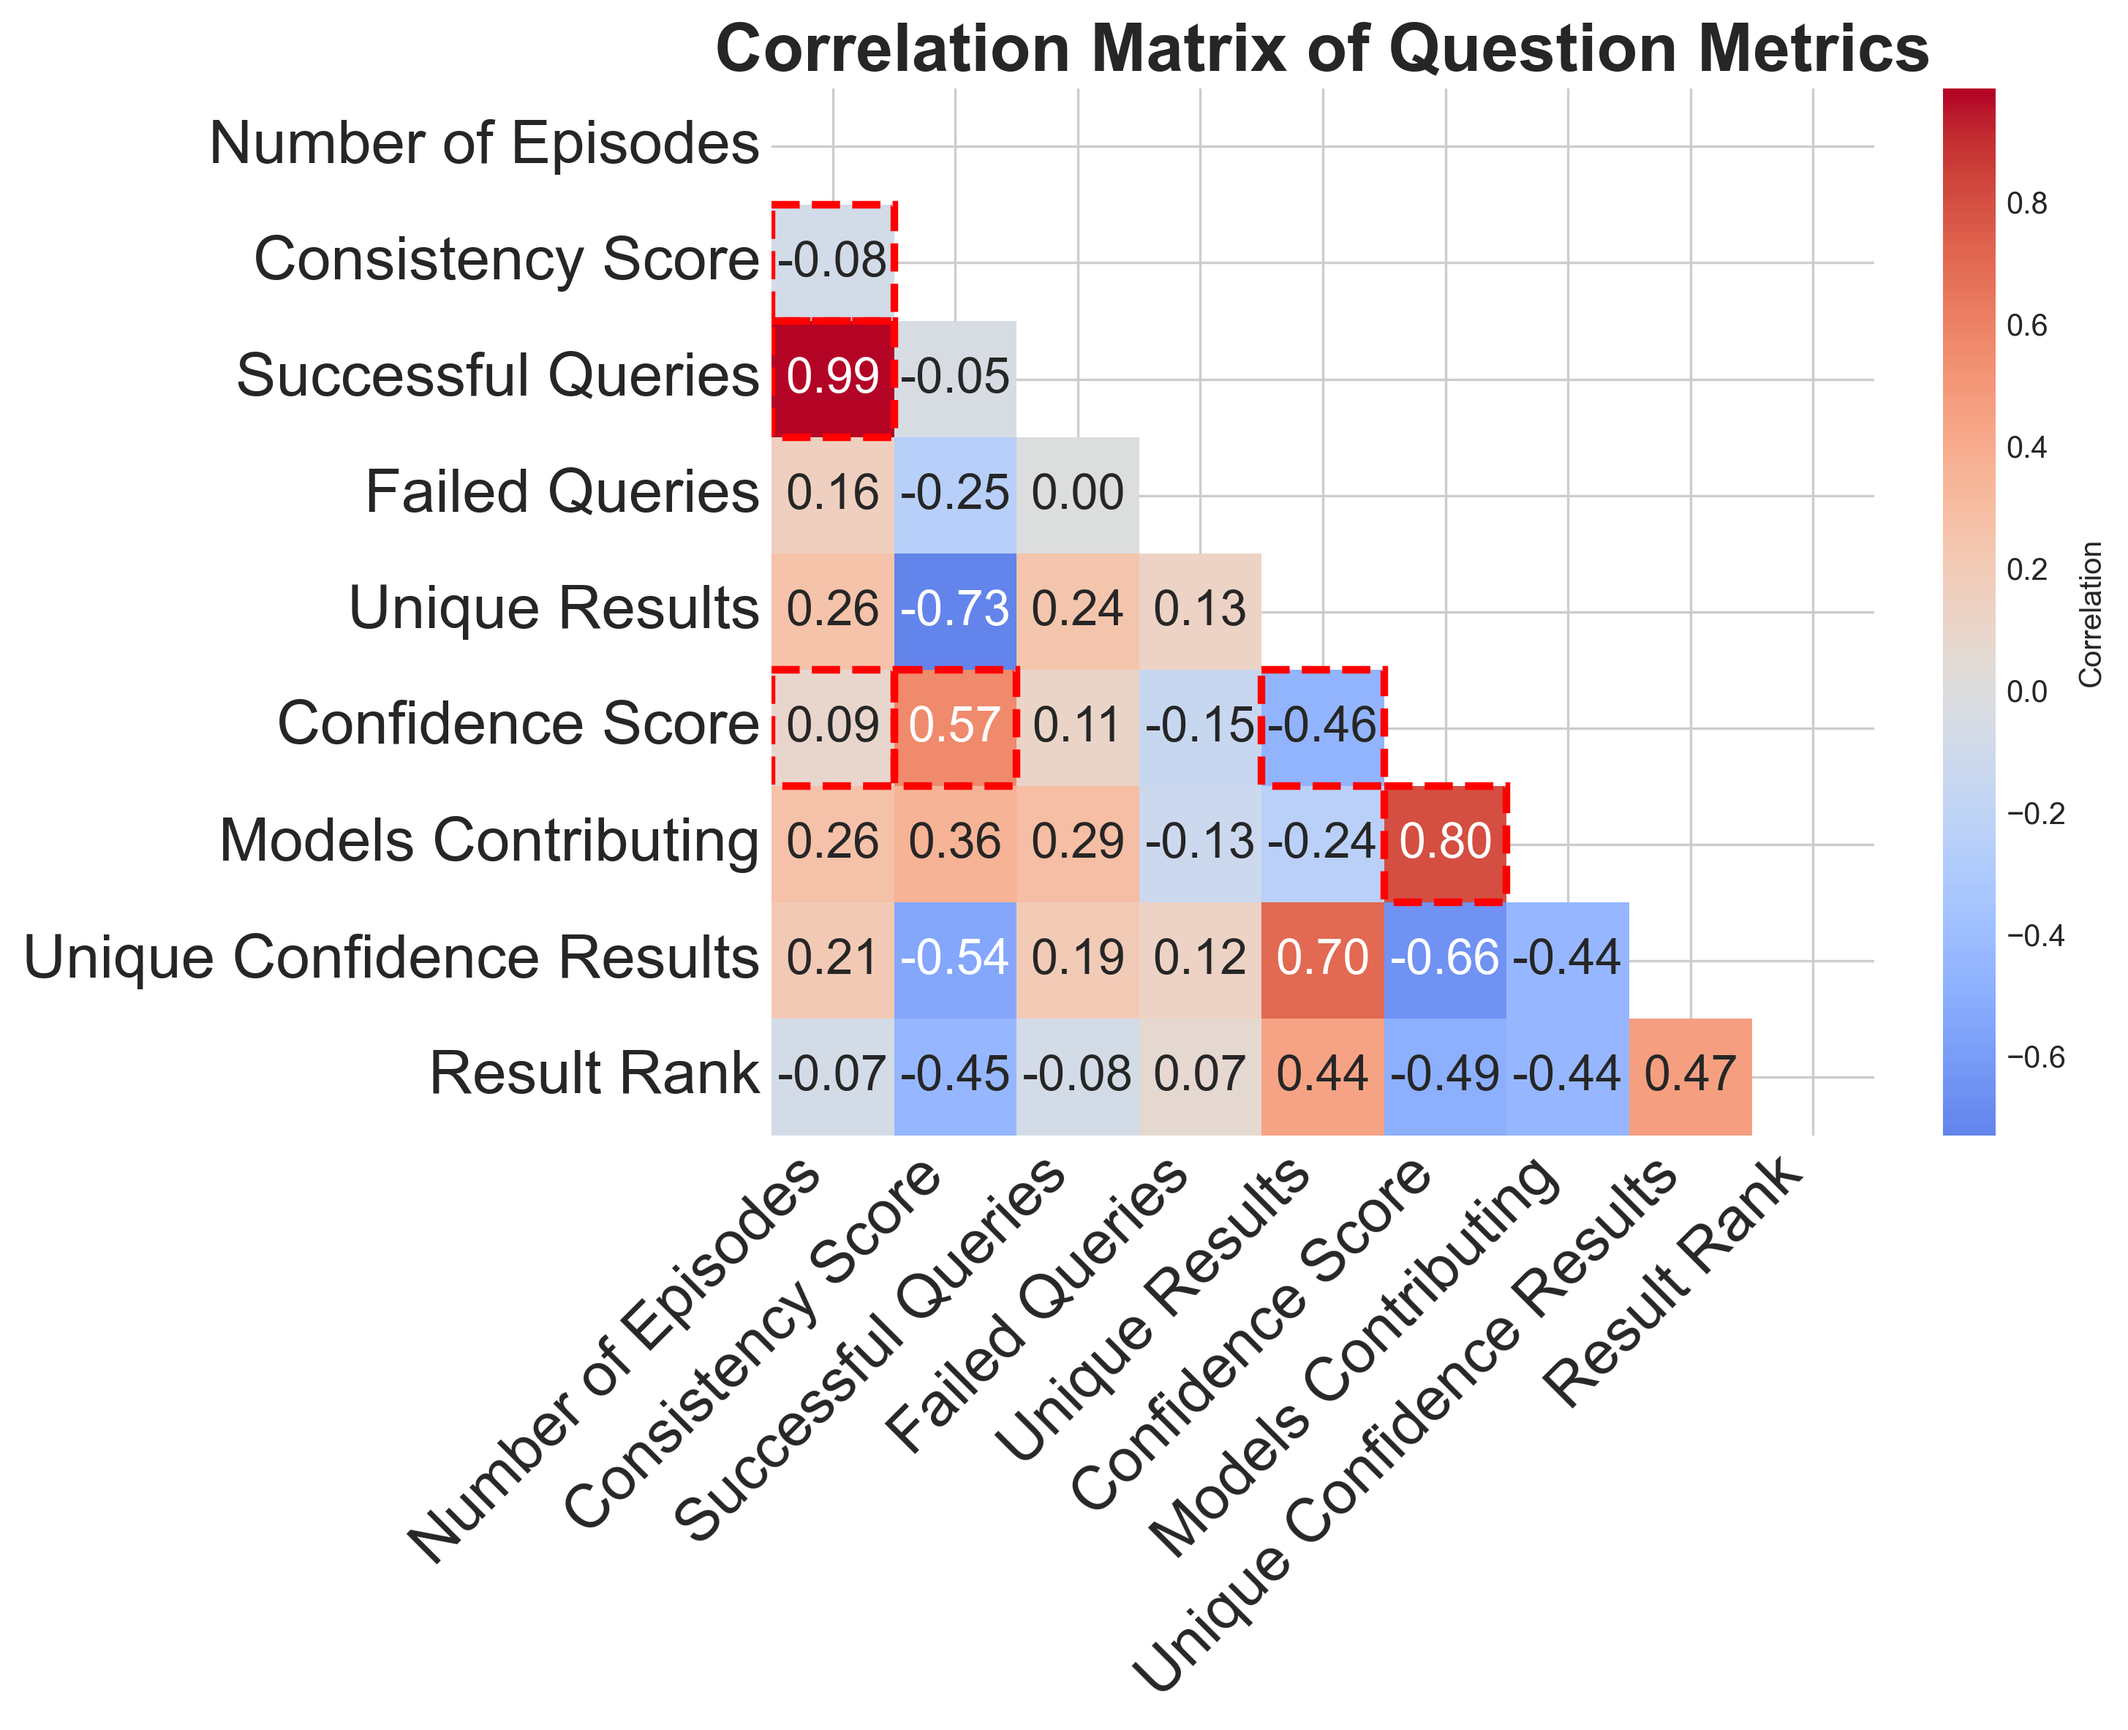
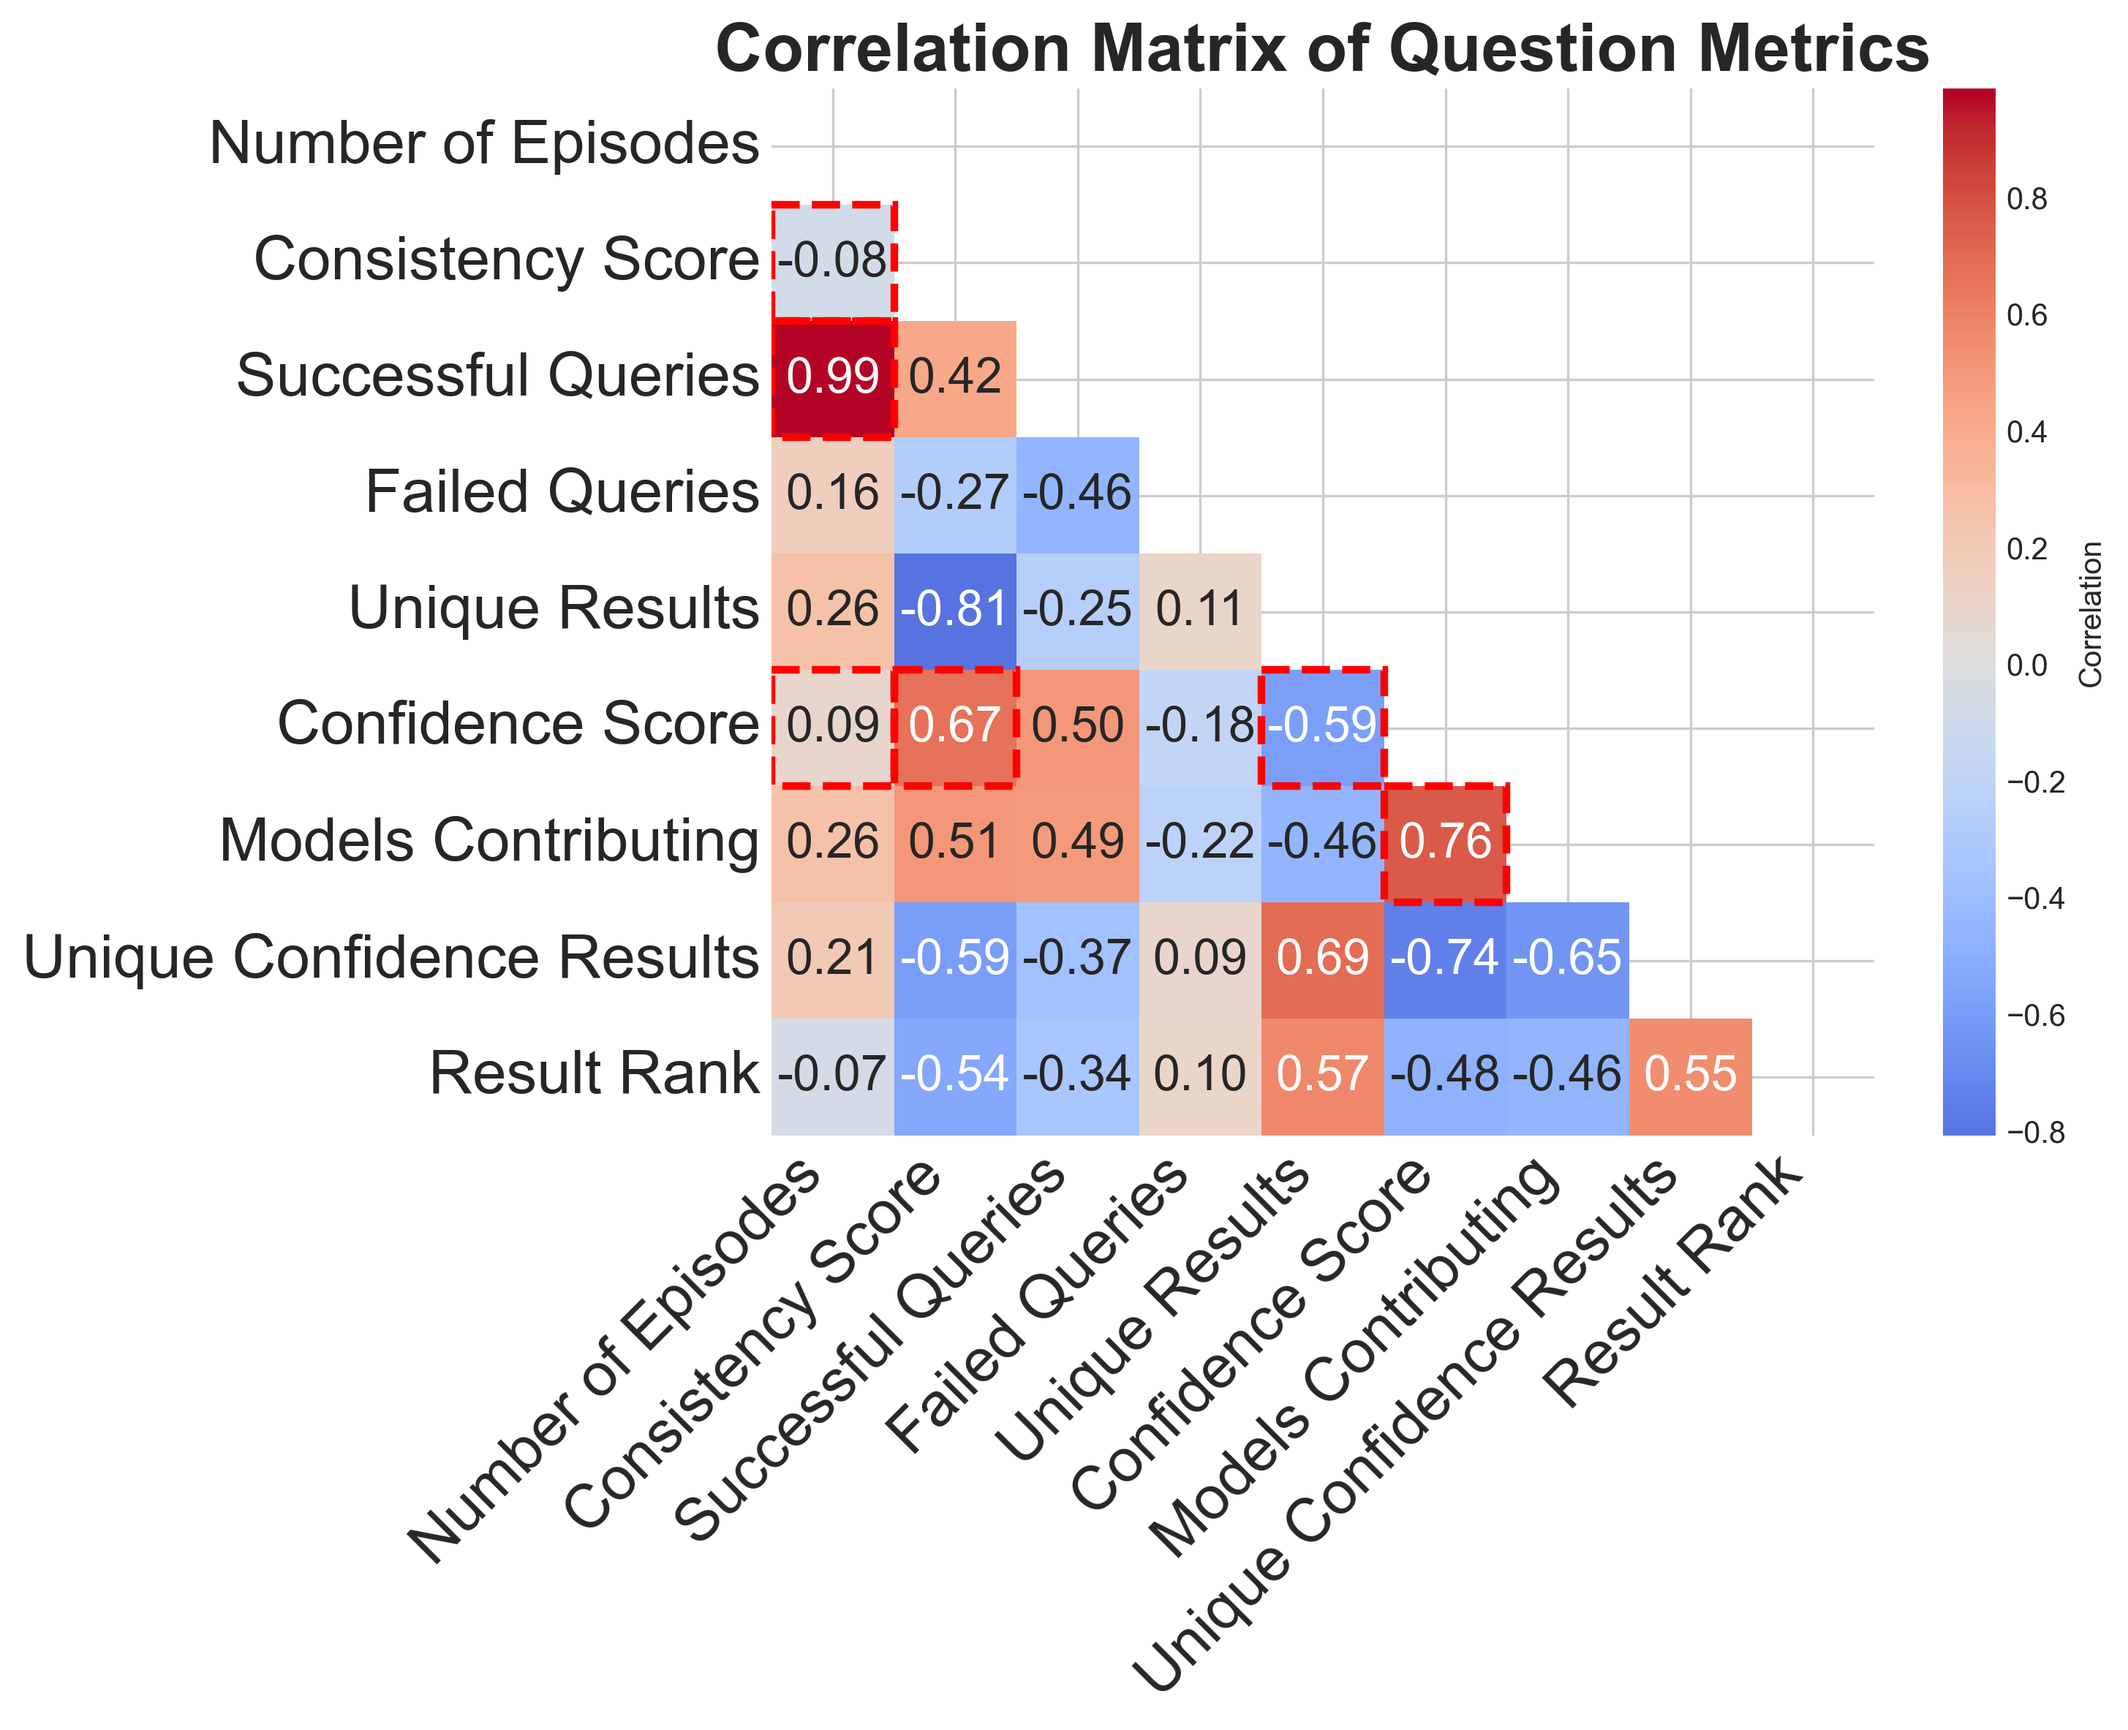
Updated correlation matrix

diff --git a/analysis/visualizations.py b/analysis/visualizations.py
@@ -347,7 +347,13 @@ col_labels = {
     'total_unique_confidence_results': 'Unique Confidence Results',
     'model_result_rank': 'Result Rank',
 }
+# Use df for num_queries correlations (all snapshots), last_snap_model for the rest
 corr_matrix = df[numeric_cols].rename(columns=col_labels).corr()
+non_queries_cols = [c for c in numeric_cols if c != 'num_queries']
+corr_snap = last_snap_model[non_queries_cols].rename(columns=col_labels).corr()
+for col in corr_snap.columns:
+    for row in corr_snap.index:
+        corr_matrix.loc[row, col] = corr_snap.loc[row, col]
 mask = np.triu(np.ones_like(corr_matrix, dtype=bool))
 sns.heatmap(corr_matrix, mask=mask, annot=True, fmt='.2f', cmap='coolwarm',
             center=0, ax=ax, cbar_kws={'label': 'Correlation'}, annot_kws={'size': 16})
